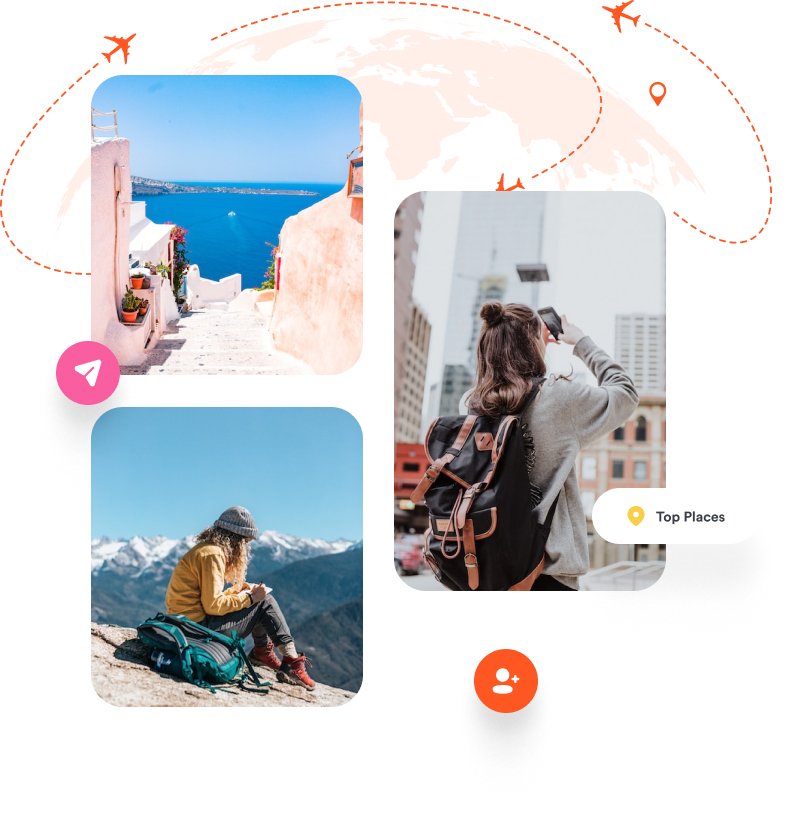
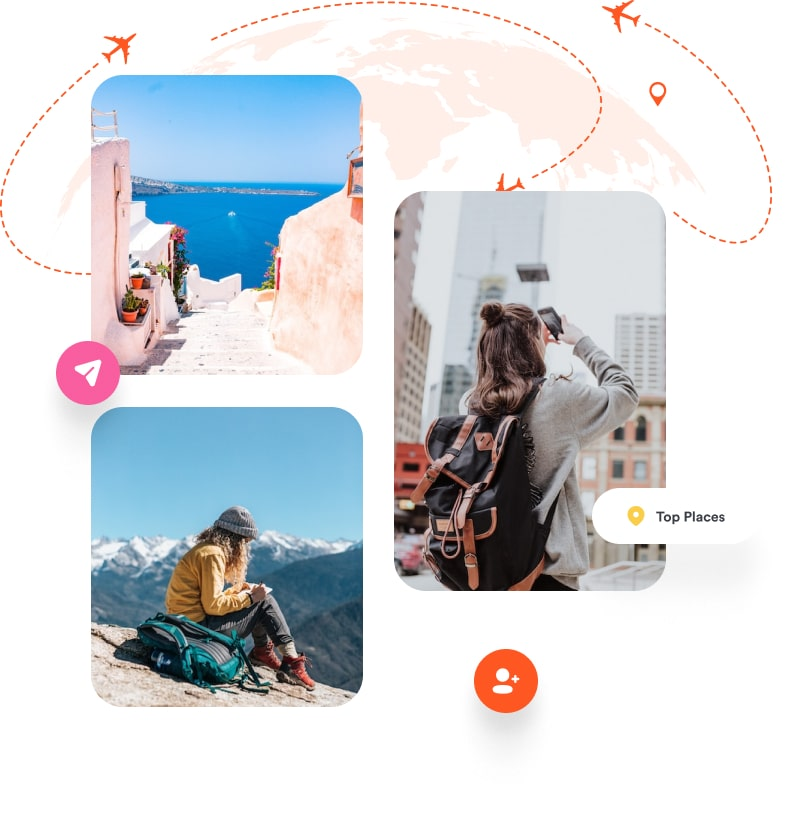
change image size

diff --git a/practice2/src/index.html b/practice2/src/index.html
@@ -46,16 +46,15 @@
 						<li><a class="button button-purple" href="javascript:void(0)">signup</a></li>
 					</ul>
 				</div>
-
 				<div class="overlay"></div>
 			</header>
 			<section class="banner container">
 				<picture>
 					<source
-						srcset="./assets/images/background-images/tablet-desktop-images/banner.jpg 1.5x"
+						srcset="./assets/images/background-images/tablet-desktop-images/banner.jpg"
 						media="(min-width: 468px)"
 					/>
-					<source srcset="./assets/images/background-images/mobile-images/banner.jpg 1.5x" />
+					<source srcset="./assets/images/background-images/mobile-images/banner.jpg" />
 					<img
 						class="banner__image"
 						src="./assets/images/background-images/mobile-images/banner.jpg"
